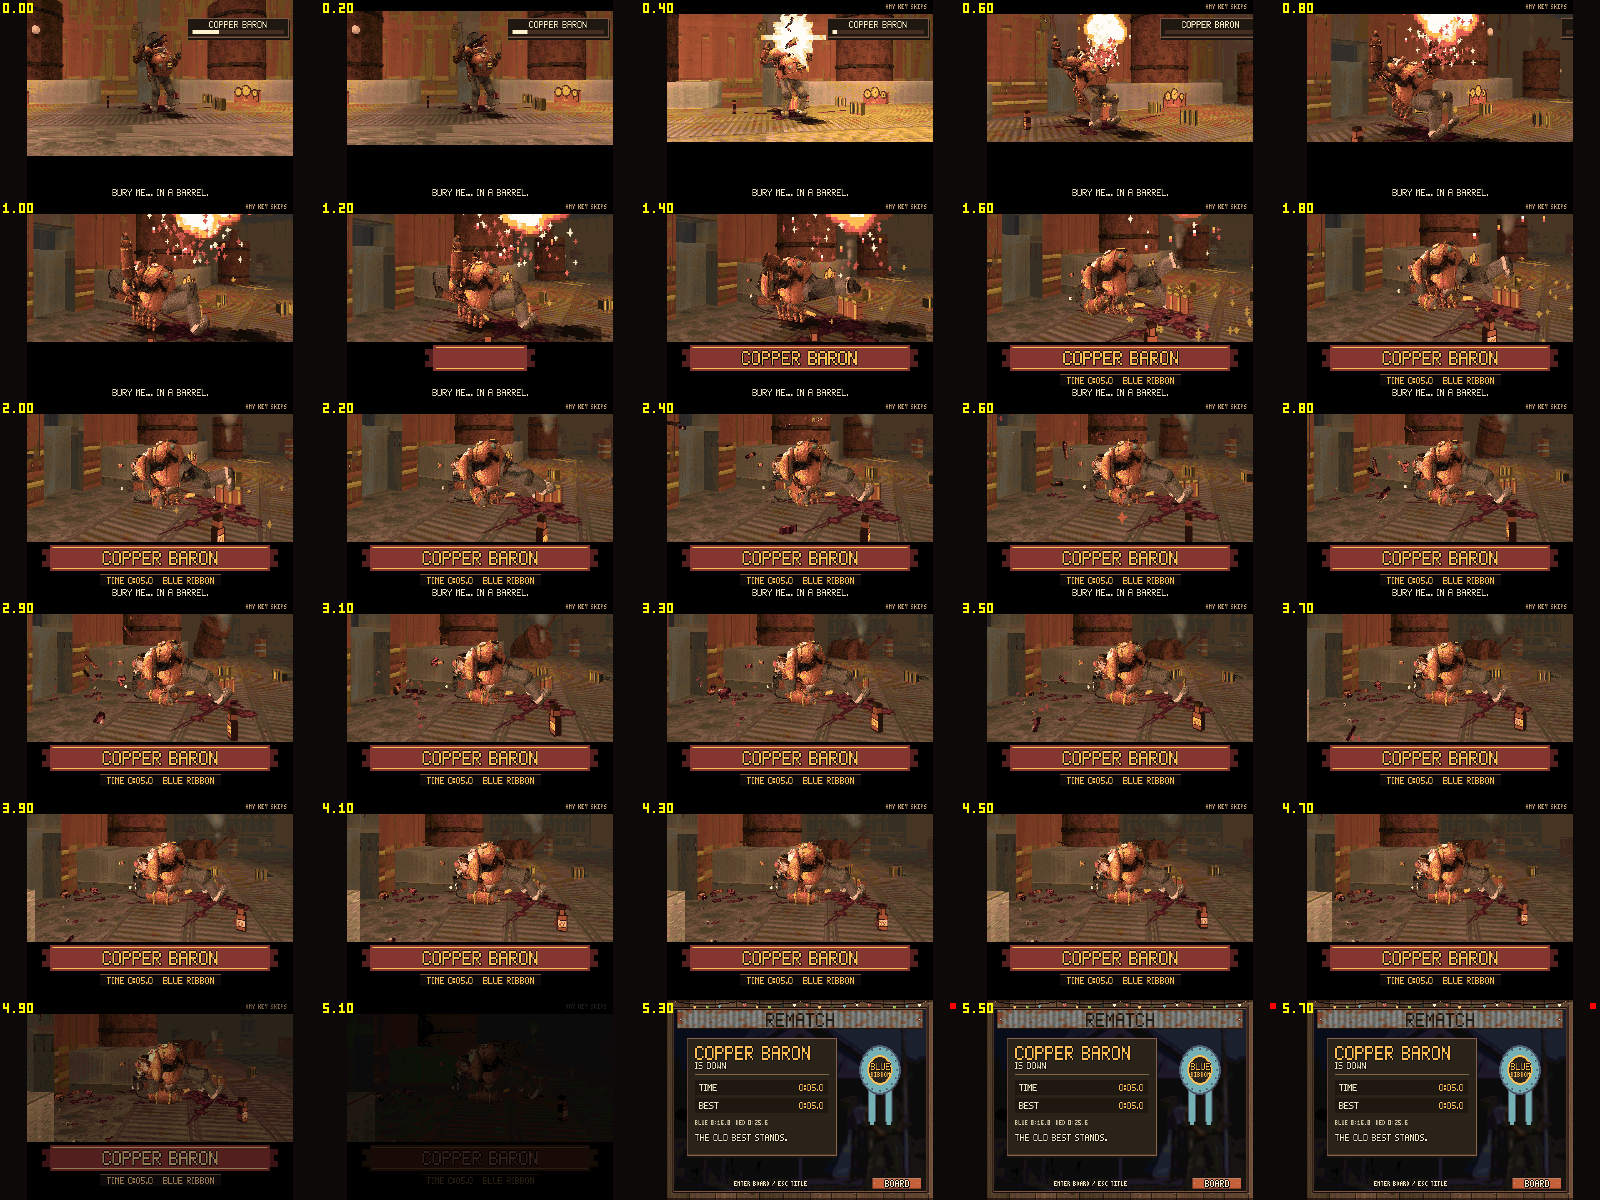
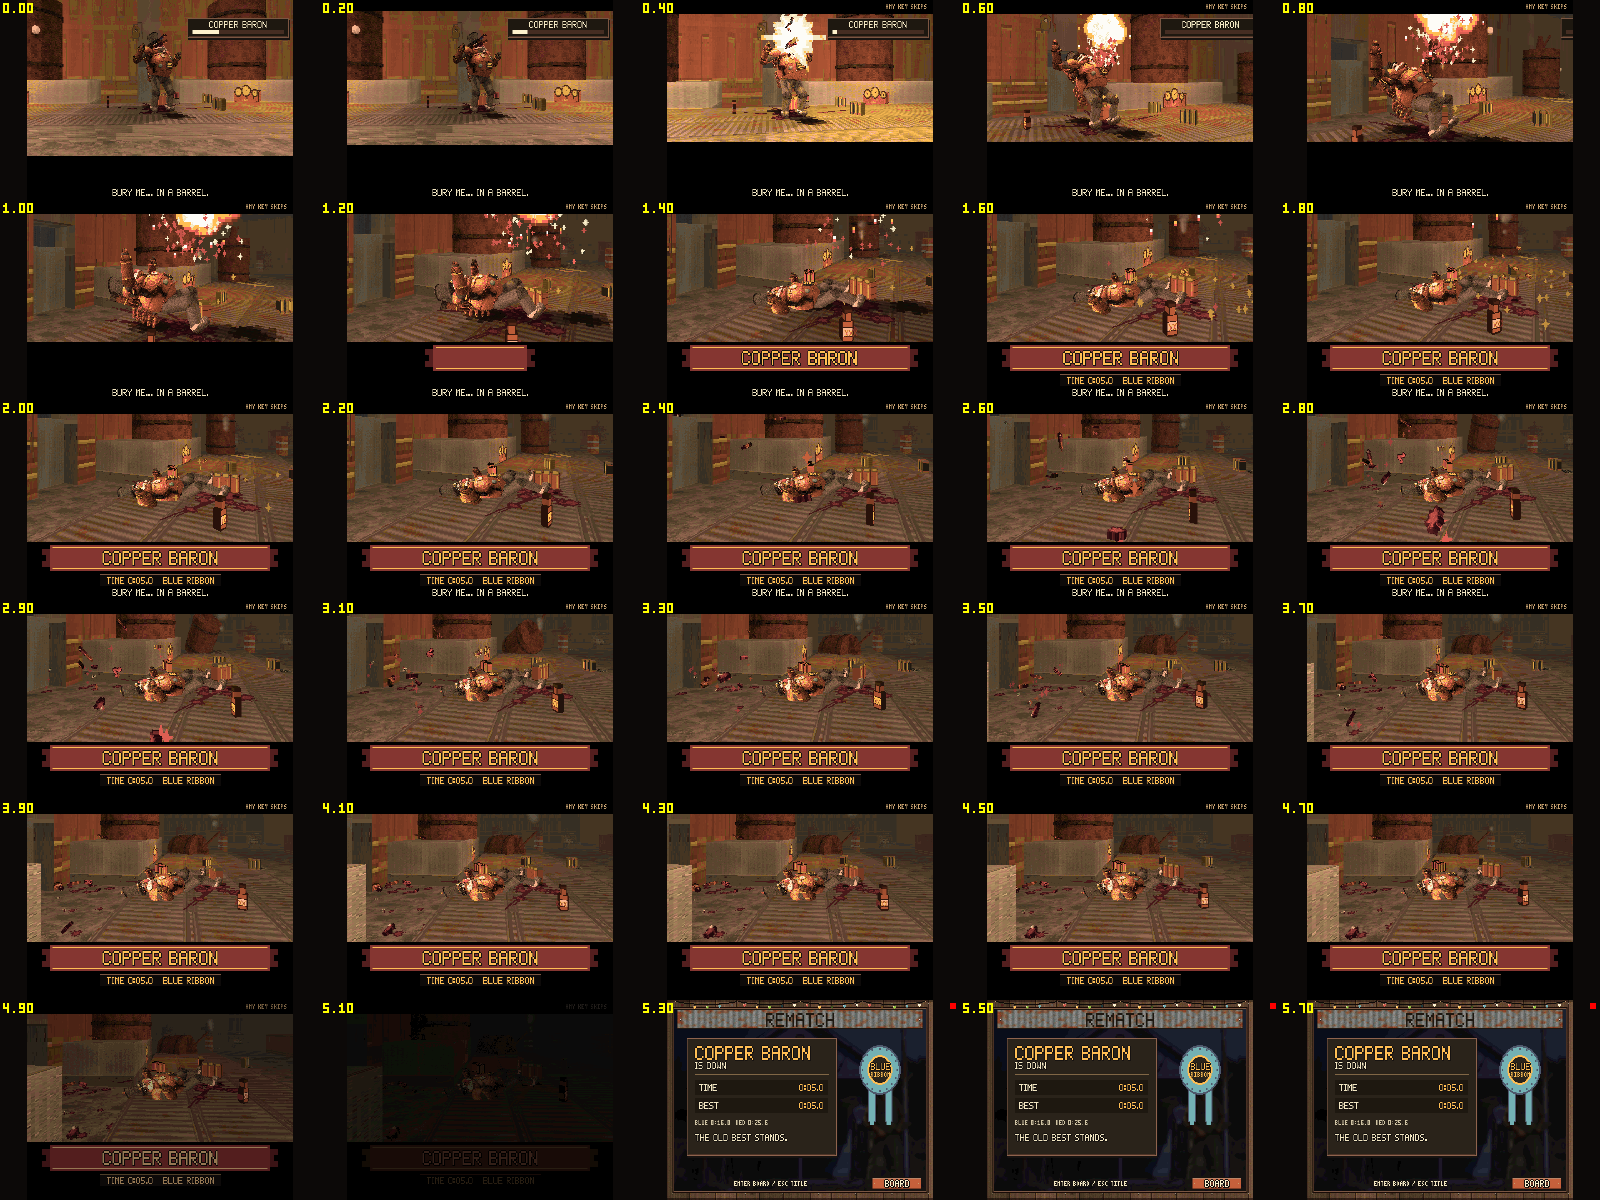
The Copper Baron keeps his scripted fall: on his back his gut and bent legs read as squatting
fit.json hand_over false keeps a boss to his set fall (laid out flat);
the other two-legged bosses still hand over to their ragdolls.

diff --git a/docs/dev/gameplay.md b/docs/dev/gameplay.md
@@ -814,6 +814,9 @@ for something that can be up on one; use `floor_under(x, y, z)` or
     `Ragdoll.carry_on`), no blow; the model eases onto it over `BOSS_EASE`;
     its torso may lie `BOSS_SLACK` from the boss's spot (the fall carries it
     back; pulled to the spot it slid). That fall is no longer flattened.
+    Not the Copper Baron (fit.json `hand_over` false): on his back his
+    great gut stood up and his bent legs propped him, reading as a man
+    squatting; his set fall lays him out flat.
   - Cost (headless, twenty bodies shot and stepped to rest, medians of
     three runs back to back against v3.10.0): a person's step is unchanged
     (billy 232 against 238 us, tin guard 231 against 242; the same steps to

diff --git a/docs/dev/bosses.md b/docs/dev/bosses.md
@@ -125,7 +125,8 @@ curlers still landed) and the backup kept shooting.
   The view: a boss's scripted fall ends on its last step (`die_4`) instead of
   sliding on into `down`, and twists a quarter or half turn as it goes so the
   body lies on open floor (`ActorView._fall_twist`). Since pass 13 a boss on
-  two legs (not the truck, the boat or Maw, whose bodies at rest are cels)
+  two legs (not the truck, the boat or Maw, whose bodies at rest are cels,
+  nor the Copper Baron, fit.json `hand_over` false)
   hands over to its ragdoll .6 of the way through that fall, its pose and
   every part's speed carried on, and lands and settles as a body
   ([gameplay.md](gameplay.md#ragdolls-and-finishing-shots-v320)).
